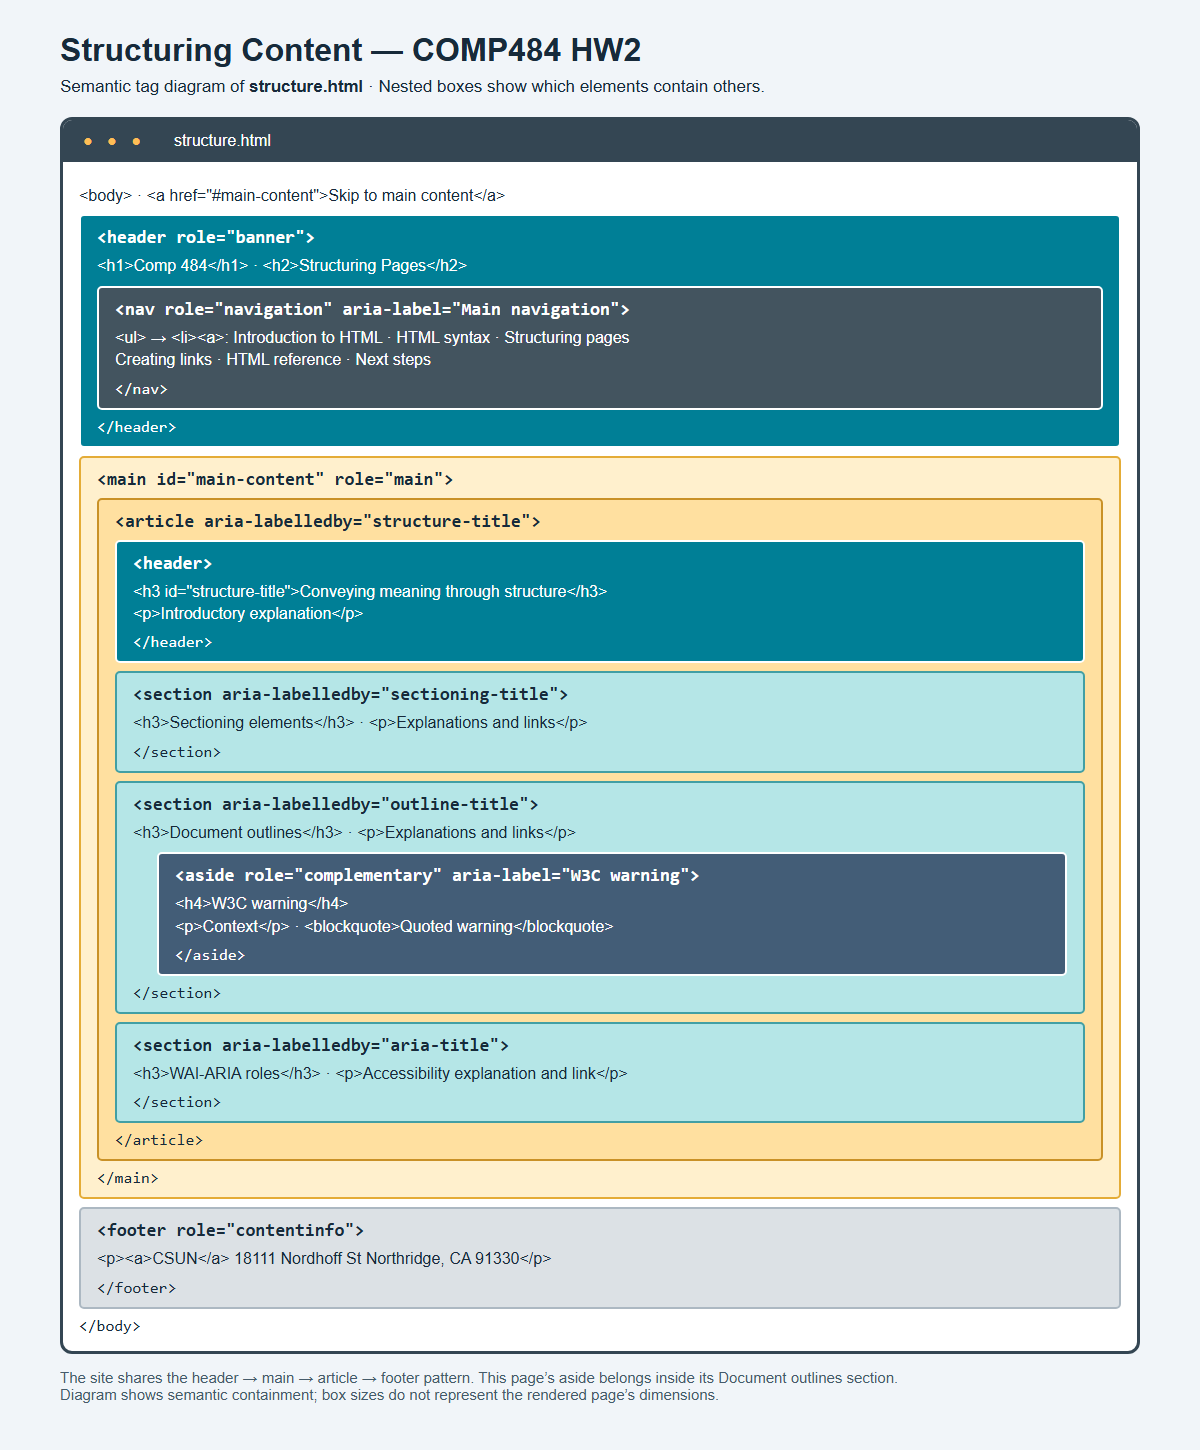
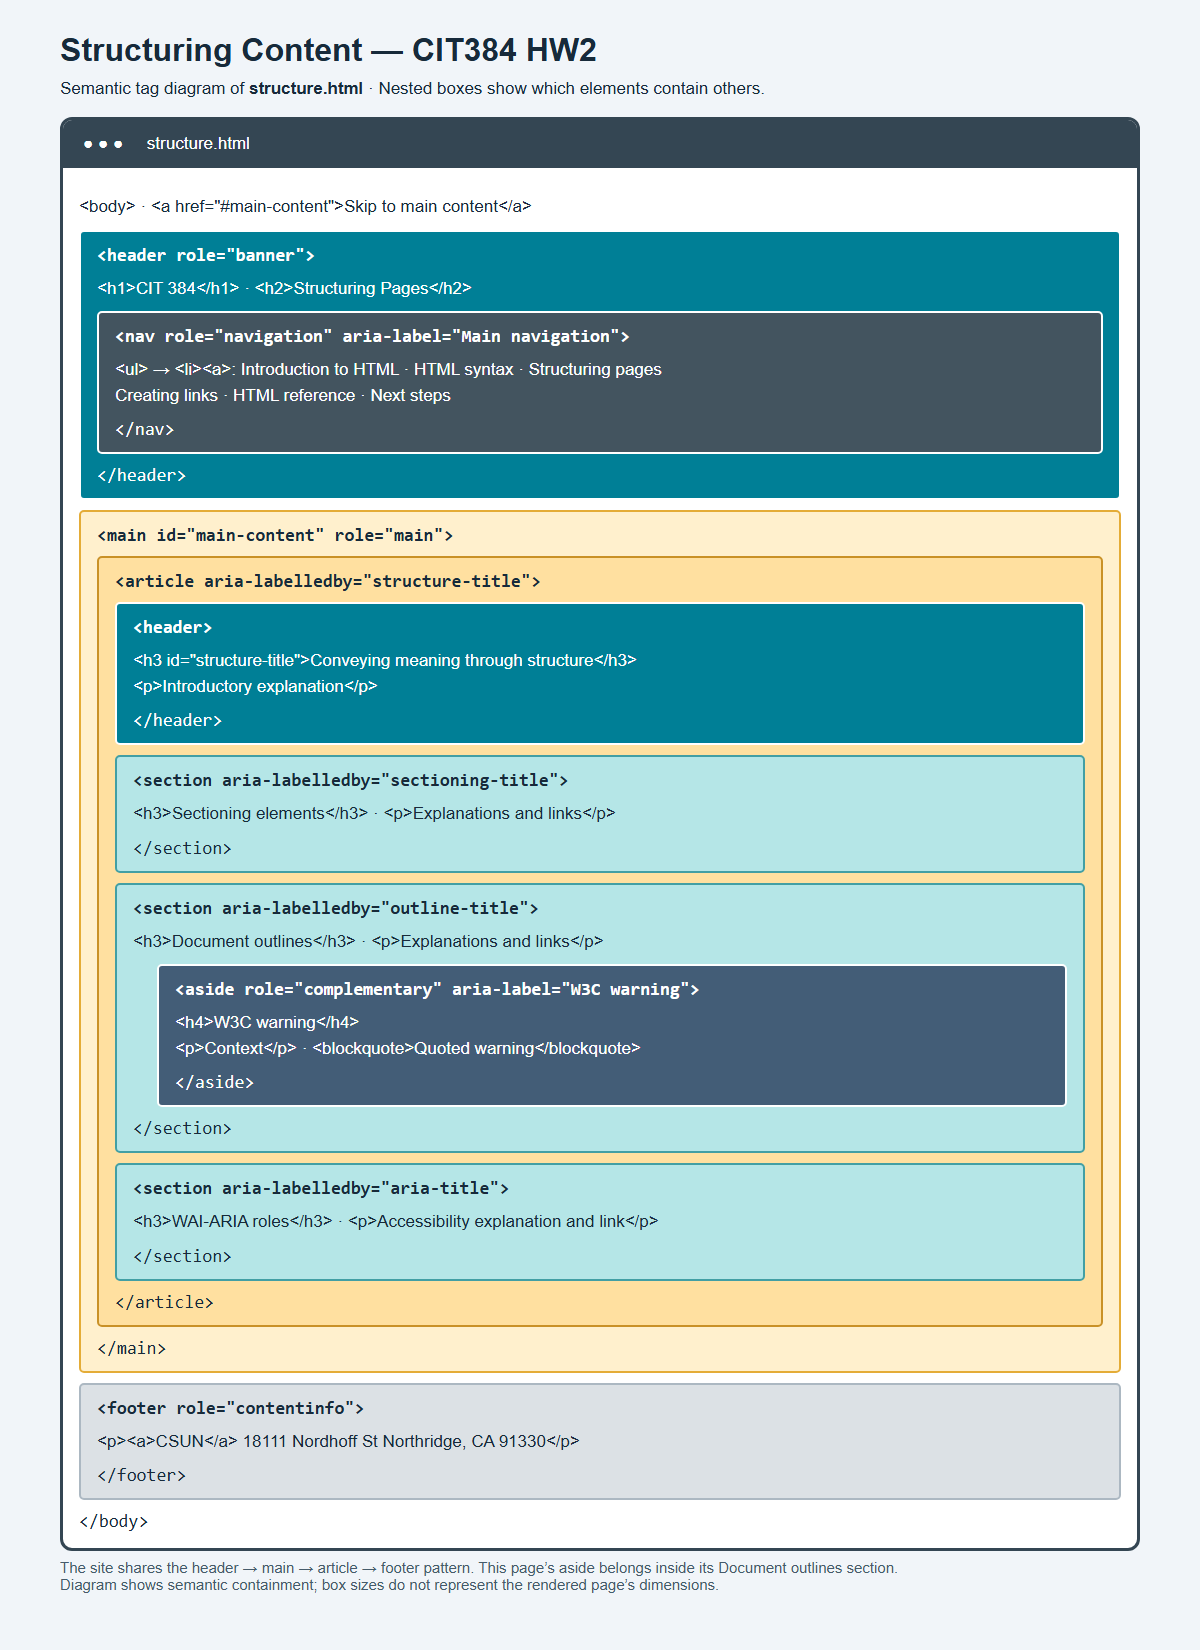
Correct course name to CIT384

Changed region(s): [[0.0308, 0.0, 0.9558, 0.9621]]

diff --git a/images/semantic-tag-diagram.html b/images/semantic-tag-diagram.html
@@ -1,0 +1,34 @@
+<!DOCTYPE html>
+<html lang="en">
+<head>
+<meta charset="utf-8">
+<title>CIT384 HW2 — Semantic tag diagram</title>
+<style>
+*{box-sizing:border-box}body{margin:0;padding:32px 60px;background:#f1f5f9;color:#172a3a;font:17px Arial,sans-serif}h1{font-size:32px;margin:0 0 10px}p{margin:8px 0 18px}.browser{border:3px solid #344653;border-radius:12px;overflow:hidden;background:white}.bar{background:#344653;color:white;padding:14px 20px}.page{padding:16px}.box{padding:12px 16px;margin:10px 0;border:2px solid white;border-radius:5px}.tag,.end{font:18px Consolas,monospace}.tag{font-weight:bold}.end{margin-top:10px}.detail{margin:10px 0;line-height:1.5}.header{background:#007f96;color:white}.nav{background:#43545f;color:white}.main{background:#fff0cd;border-color:#e4ac37}.article{background:#ffe0a0;border-color:#c99127}.section{background:#b5e6e7;border-color:#429fa4}.aside{background:#435d77;color:white;margin-left:24px}.footer{background:#dce1e5;border-color:#acb8c2}.note{font-size:15px;color:#455b6b}
+</style>
+</head>
+<body>
+<h1>Structuring Content — CIT384 HW2</h1>
+<p>Semantic tag diagram of <b>structure.html</b> · Nested boxes show which elements contain others.</p>
+<div class="browser">
+<div class="bar">● ● ● &nbsp; &nbsp; structure.html</div>
+<div class="page">
+<div class="detail">&lt;body&gt; · &lt;a href="#main-content"&gt;Skip to main content&lt;/a&gt;</div>
+<div class="box header"><div class="tag">&lt;header role="banner"&gt;</div>
+<div class="detail">&lt;h1&gt;CIT 384&lt;/h1&gt; · &lt;h2&gt;Structuring Pages&lt;/h2&gt;</div>
+<div class="box nav"><div class="tag">&lt;nav role="navigation" aria-label="Main navigation"&gt;</div>
+<div class="detail">&lt;ul&gt; → &lt;li&gt;&lt;a&gt;: Introduction to HTML · HTML syntax · Structuring pages<br>Creating links · HTML reference · Next steps</div><div class="end">&lt;/nav&gt;</div></div>
+<div class="end">&lt;/header&gt;</div></div>
+<div class="box main"><div class="tag">&lt;main id="main-content" role="main"&gt;</div>
+<div class="box article"><div class="tag">&lt;article aria-labelledby="structure-title"&gt;</div>
+<div class="box header"><div class="tag">&lt;header&gt;</div><div class="detail">&lt;h3 id="structure-title"&gt;Conveying meaning through structure&lt;/h3&gt;<br>&lt;p&gt;Introductory explanation&lt;/p&gt;</div><div class="end">&lt;/header&gt;</div></div>
+<div class="box section"><div class="tag">&lt;section aria-labelledby="sectioning-title"&gt;</div><div class="detail">&lt;h3&gt;Sectioning elements&lt;/h3&gt; · &lt;p&gt;Explanations and links&lt;/p&gt;</div><div class="end">&lt;/section&gt;</div></div>
+<div class="box section"><div class="tag">&lt;section aria-labelledby="outline-title"&gt;</div><div class="detail">&lt;h3&gt;Document outlines&lt;/h3&gt; · &lt;p&gt;Explanations and links&lt;/p&gt;</div>
+<div class="box aside"><div class="tag">&lt;aside role="complementary" aria-label="W3C warning"&gt;</div><div class="detail">&lt;h4&gt;W3C warning&lt;/h4&gt;<br>&lt;p&gt;Context&lt;/p&gt; · &lt;blockquote&gt;Quoted warning&lt;/blockquote&gt;</div><div class="end">&lt;/aside&gt;</div></div><div class="end">&lt;/section&gt;</div></div>
+<div class="box section"><div class="tag">&lt;section aria-labelledby="aria-title"&gt;</div><div class="detail">&lt;h3&gt;WAI-ARIA roles&lt;/h3&gt; · &lt;p&gt;Accessibility explanation and link&lt;/p&gt;</div><div class="end">&lt;/section&gt;</div></div>
+<div class="end">&lt;/article&gt;</div></div><div class="end">&lt;/main&gt;</div></div>
+<div class="box footer"><div class="tag">&lt;footer role="contentinfo"&gt;</div><div class="detail">&lt;p&gt;&lt;a&gt;CSUN&lt;/a&gt; 18111 Nordhoff St Northridge, CA 91330&lt;/p&gt;</div><div class="end">&lt;/footer&gt;</div></div>
+<div class="end">&lt;/body&gt;</div></div></div>
+<p class="note">The site shares the header → main → article → footer pattern. This page’s aside belongs inside its Document outlines section.<br>Diagram shows semantic containment; box sizes do not represent the rendered page’s dimensions.</p>
+</body>
+</html>

diff --git a/index.html b/index.html
@@ -9,7 +9,7 @@
   <a href="#main-content" class="skip-link">Skip to main content</a>
 
   <header role="banner">
-    <h1>Comp 484</h1>
+    <h1>CIT 384</h1>
     <h2>Introduction to HTML</h2>
     <nav role="navigation" aria-label="Main navigation">
       <ul>

diff --git a/structure.html b/structure.html
@@ -9,7 +9,7 @@
   <a href="#main-content" class="skip-link">Skip to main content</a>
 
   <header role="banner">
-    <h1>Comp 484</h1>
+    <h1>CIT 384</h1>
     <h2>Structuring Pages</h2>
     <nav role="navigation" aria-label="Main navigation">
       <ul>

diff --git a/links.html b/links.html
@@ -9,7 +9,7 @@
   <a href="#main-content" class="skip-link">Skip to main content</a>
 
   <header role="banner">
-    <h1>Comp 484</h1>
+    <h1>CIT 384</h1>
     <h2>Creating Links</h2>
     <nav role="navigation" aria-label="Main navigation">
       <ul>

diff --git a/reference.html b/reference.html
@@ -9,7 +9,7 @@
   <a href="#main-content" class="skip-link">Skip to main content</a>
 
   <header role="banner">
-    <h1>Comp 484</h1>
+    <h1>CIT 384</h1>
     <h2>HTML Reference</h2>
     <nav role="navigation" aria-label="Main navigation">
       <ul>

diff --git a/syntax.html b/syntax.html
@@ -9,7 +9,7 @@
   <a href="#main-content" class="skip-link">Skip to main content</a>
 
   <header role="banner">
-    <h1>Comp 484</h1>
+    <h1>CIT 384</h1>
     <h2>HTML Syntax</h2>
     <nav role="navigation" aria-label="Main navigation">
       <ul>

diff --git a/next.html b/next.html
@@ -9,7 +9,7 @@
   <a href="#main-content" class="skip-link">Skip to main content</a>
 
   <header role="banner">
-    <h1>Comp 484</h1>
+    <h1>CIT 384</h1>
     <h2>Next Steps</h2>
     <nav role="navigation" aria-label="Main navigation">
       <ul>

diff --git a/README.md b/README.md
@@ -1,4 +1,4 @@
-# COMP484 HW2
+# CIT384 HW2
 
 GitHub Pages site:
 [Daniel Isayan](https://killerpigwolf.github.io/comp484-hw2/)
